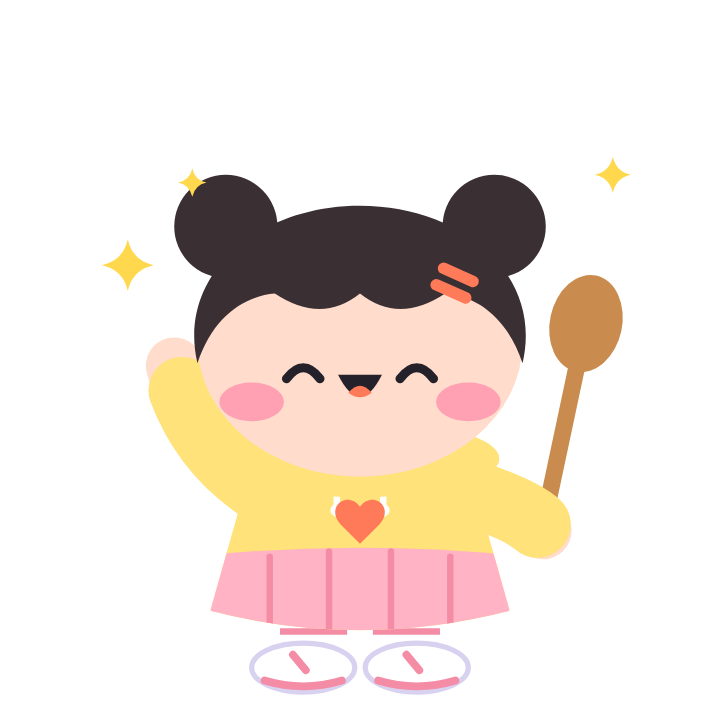
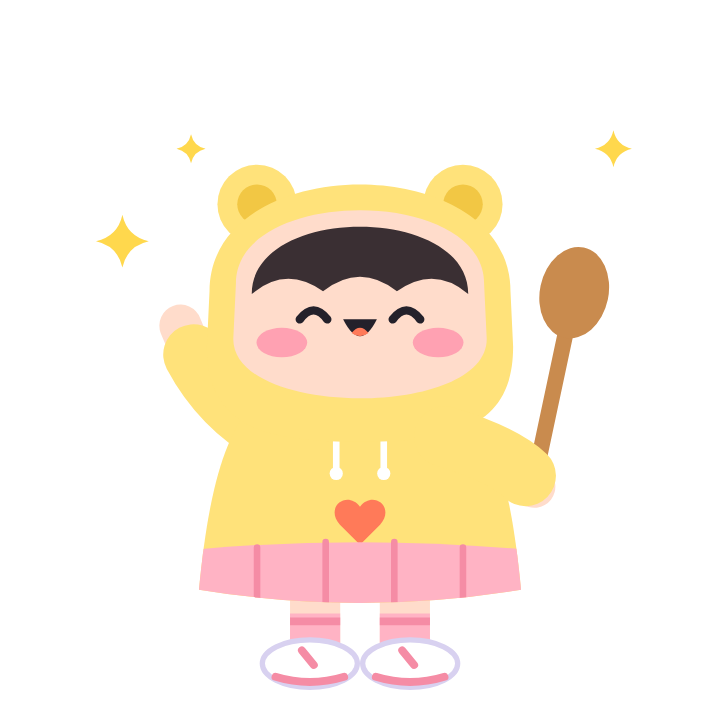
Give the cast human proportions and cuter outfits
Heads were large circles on tiny bodies. The figures are now about 2.4
heads tall with a rounded-square head, a body wider than the head,
shoulders, arms that taper to the hands and legs long enough to show socks
and sneakers. Hair is cut from the head shape so it always covers it.

Outfits: Chef Jiw wears a full coral apron over a sky-blue hoodie; Bai
Toey a denim pinafore over a mint tee with twin braids and a bucket hat;
Nong Chim a yellow bear-ear hoodie with the hood up and a pink pleated
skirt.

Claude-Session: https://claude.ai/code/session_01YRit4BDrXmu1xBXH17a6cf

Changed region(s): [[0.1833, 0.1833, 0.8861, 0.9778], [0.1222, 0.3056, 0.2139, 0.3972], [0.825, 0.1833, 0.8861, 0.275]]

diff --git a/assets/images/chef/src/draw.py b/assets/images/chef/src/draw.py
@@ -1,137 +1,130 @@
-# ทีมเชฟแบบภาพแบน วาดเป็น SVG ด้วยโค้ด: คนตัวเล็กหัวโต มีผม เสื้อผ้า แขนขา และของใช้ประจำตัว
+# ทีมเชฟแบบภาพแบน วาดเป็น SVG ด้วยโค้ด
+# สัดส่วนแบบคนตัวเล็กอ้วน: หัวเป็นทรงเหลี่ยมมน สูงราว 2.4 หัว ตัวกว้างกว่าหัว มีไหล่ แขนเรียวลงไปหามือ ขายาวพอเห็นถุงเท้ากับรองเท้า
 # รันไฟล์นี้ได้ไฟล์ .svg ของทุกท่าและทุกฉาก แล้วรัน `node raster.js ..` แปลงเป็น PNG
-INK, CORAL, CORAL_L, HAT, HAT_D, WOOD, PINK, YEL = '#24212B', '#FF7A59', '#FFA58C', '#FFFFFF', '#D8D1F0', '#C98B4E', '#FF9DB0', '#FFD84D'
+INK, CORAL, CORAL_L, CORAL_D, HAT, HAT_D, WOOD, PINK, YEL = '#24212B', '#FF7A59', '#FFA58C', '#E9603F', '#FFFFFF', '#D8D1F0', '#C98B4E', '#FF9DB0', '#FFD84D'
 GREEN, GREEN_L, STRAW, STRAW_D = '#2FB383', '#7BE0B5', '#F2C57C', '#D9A250'
 SVG = lambda body: f'<svg xmlns="http://www.w3.org/2000/svg" viewBox="0 0 480 480" width="480" height="480">\n{body}\n</svg>'
 
 def eyes(kind, dx=0, dy=0):
     L, R, Y = 196 + dx, 284 + dx, 262 + dy
-    if kind == 'dot': return f'<circle cx="{L}" cy="{Y}" r="10" fill="{INK}"/><circle cx="{R}" cy="{Y}" r="10" fill="{INK}"/>'
-    if kind == 'happy': return f'<path d="M{L-13} {Y+4} q13 -17 26 0 M{R-13} {Y+4} q13 -17 26 0" stroke="{INK}" stroke-width="7" stroke-linecap="round" fill="none"/>'
-    if kind == 'squeeze': return f'<path d="M{L-11} {Y-9} l16 9 l-16 9 M{R+11} {Y-9} l-16 9 l16 9" stroke="{INK}" stroke-width="7" stroke-linecap="round" stroke-linejoin="round" fill="none"/>'
+    if kind == 'dot': return f'<circle cx="{L}" cy="{Y}" r="11" fill="{INK}"/><circle cx="{R}" cy="{Y}" r="11" fill="{INK}"/>'
+    if kind == 'happy': return f'<path d="M{L-13} {Y+4} q13 -17 26 0 M{R-13} {Y+4} q13 -17 26 0" stroke="{INK}" stroke-width="8" stroke-linecap="round" fill="none"/>'
+    if kind == 'squeeze': return f'<path d="M{L-11} {Y-9} l16 9 l-16 9 M{R+11} {Y-9} l-16 9 l16 9" stroke="{INK}" stroke-width="8" stroke-linecap="round" stroke-linejoin="round" fill="none"/>'
 def mouth(kind):
-    X, Y = 240, 268
-    if kind == 'smile': return f'<path d="M{X-10} {Y} q10 11 20 0" stroke="{INK}" stroke-width="6" stroke-linecap="round" fill="none"/>'
-    if kind == 'open': return f'<path d="M{X-17} {Y-5} q17 34 34 0 z" fill="{INK}"/><path d="M{X-9} {Y+9} q9 7 18 0 q-9 -11 -18 0 z" fill="{CORAL}"/>'
+    X, Y = 240, 270
+    if kind == 'smile': return f'<path d="M{X-10} {Y} q10 11 20 0" stroke="{INK}" stroke-width="7" stroke-linecap="round" fill="none"/>'
+    if kind == 'open': return f'<path d="M{X-16} {Y-4} q16 32 32 0 z" fill="{INK}"/><path d="M{X-8} {Y+9} q8 6 16 0 q-8 -10 -16 0 z" fill="{CORAL}"/>'
     if kind == 'o': return f'<ellipse cx="{X}" cy="{Y+3}" rx="7" ry="9" fill="{INK}"/>'
-    if kind == 'wavy': return f'<path d="M{X-15} {Y+3} q5 -8 10 0 t10 0 t10 0" stroke="{INK}" stroke-width="5.5" stroke-linecap="round" fill="none"/>'
-    if kind == 'dash': return f'<path d="M{X-9} {Y+2} l18 0" stroke="{INK}" stroke-width="6.5" stroke-linecap="round"/>'
+    if kind == 'wavy': return f'<path d="M{X-15} {Y+3} q5 -8 10 0 t10 0 t10 0" stroke="{INK}" stroke-width="6" stroke-linecap="round" fill="none"/>'
+    if kind == 'dash': return f'<path d="M{X-9} {Y+1} l18 0" stroke="{INK}" stroke-width="7.5" stroke-linecap="round"/>'
     return ''
-def face(e, m, blush=0.8):  # หน้าอยู่กลางหัว: ตาจุดห่างกัน แก้มชมพู ปากเล็ก
-    return (f'<g transform="translate(0 -48)"><ellipse cx="156" cy="284" rx="25" ry="15" fill="{PINK}" opacity="{blush}"/><ellipse cx="324" cy="284" rx="25" ry="15" fill="{PINK}" opacity="{blush}"/>'
+def face(e, m, blush=0.85):  # ตาจุดอยู่ต่ำ ปากเล็กอยู่ระหว่างตา แก้มชมพูใต้ตา
+    return (f'<g transform="translate(240 176) scale(0.8) translate(-240 -262)"><ellipse cx="166" cy="288" rx="24" ry="14" fill="{PINK}" opacity="{blush}"/><ellipse cx="314" cy="288" rx="24" ry="14" fill="{PINK}" opacity="{blush}"/>'
             f'{eyes(*e) if isinstance(e, tuple) else eyes(e)}{mouth(m)}</g>')
 star = lambda x, y, s, c=YEL: f'<path d="M{x} {y-s} q{s*0.18} {s*0.82} {s} {s} q-{s*0.82} {s*0.18} -{s} {s} q-{s*0.18} -{s*0.82} -{s} -{s} q{s*0.82} -{s*0.18} {s} -{s} z" fill="{c}"/>'
 heart = lambda x, y, k=1.0, c=PINK: f'<path transform="translate({x} {y}) scale({k})" d="M0 -6 c-12 -16 -34 0 -19 17 l19 19 l19 -19 c15 -17 -7 -33 -19 -17 z" fill="{c}"/>'
-note = lambda x, y, c: f'<path d="M{x} {y} v-34 l22 -6 v32" stroke="{c}" stroke-width="6" fill="none" stroke-linecap="round" stroke-linejoin="round"/><ellipse cx="{x-7}" cy="{y}" rx="9" ry="7" fill="{c}"/><ellipse cx="{x+15}" cy="{y-8}" rx="9" ry="7" fill="{c}"/>'
 
-SHOULDER = {'L': (164, 304), 'R': (316, 304)}
-def arm(side, hx, hy, bx=0, by=0, skin='#FFE3C2', sleeve=None, cut=0.5):
-    """แขนโค้งจากไหล่ถึงมือ ปลายมน ท่อนบนเป็นแขนเสื้อ"""
+HEAD = 'M146 152 C146 78 334 78 334 152 L336 194 C336 254 144 254 144 194 Z'
+def hair_cap(color, fringe, key):
+    return (f'<clipPath id="h{key}"><path d="{fringe}"/></clipPath>'
+            f'<path d="{HEAD}" fill="{color}" stroke="{color}" stroke-width="12" stroke-linejoin="round" clip-path="url(#h{key})"/>')
+TORSO = 'M180 232 C142 242 126 300 118 384 Q240 404 362 384 C354 300 338 242 300 232 Z'
+SHOULDER = {'L': (176, 268), 'R': (304, 268)}
+def arm(side, hx, hy, bx=0, by=0, skin='#FFE3C2', sleeve=None, cut=0.62):
+    """แขนโค้งจากไหล่ถึงมือ ท่อนบนเป็นแขนเสื้อที่กว้างกว่า ปลายแขนกับมือเรียวกว่า"""
     x0, y0 = SHOULDER[side]; cx, cy = (x0 + hx) / 2 + bx, (y0 + hy) / 2 + by
-    out = f'<path d="M{x0} {y0} Q{cx} {cy} {hx} {hy}" stroke="{skin}" stroke-width="44" stroke-linecap="round" fill="none"/>'
+    out = f'<path d="M{x0} {y0} Q{cx} {cy} {hx} {hy}" stroke="{skin}" stroke-width="32" stroke-linecap="round" fill="none"/>'
     if sleeve:
         t = cut; ax, ay = x0 + (cx - x0) * t, y0 + (cy - y0) * t; bx2, by2 = cx + (hx - cx) * t, cy + (hy - cy) * t
-        out += f'<path d="M{x0} {y0} Q{ax} {ay} {ax + (bx2 - ax) * t} {ay + (by2 - ay) * t}" stroke="{sleeve}" stroke-width="52" stroke-linecap="round" fill="none"/>'
+        out += f'<path d="M{x0} {y0} Q{ax} {ay} {ax + (bx2 - ax) * t} {ay + (by2 - ay) * t}" stroke="{sleeve}" stroke-width="46" stroke-linecap="round" fill="none"/>'
     return out
-
-BODY = 'M160 270 Q240 246 320 270 L356 398 Q240 428 124 398 Z'
-def person(skin, skin_d, legs, shoes, outfit, hair, e, m, back='', arms_back='', arms_front='', hat='', front='', blush=0.8, sock=''):
-    return SVG(f'''{back}
-<path d="M204 392 V430 M276 392 V430" stroke="{legs}" stroke-width="52" stroke-linecap="round"/>{sock}
-<ellipse cx="198" cy="444" rx="38" ry="17" fill="{shoes}"/><ellipse cx="282" cy="444" rx="38" ry="17" fill="{shoes}"/>
-{arms_back}
-<clipPath id="c{abs(hash(outfit)) % 99999}"><path d="{BODY}"/></clipPath>
-<path d="{BODY}" fill="{outfit[0]}"/><g clip-path="url(#c{abs(hash(outfit)) % 99999})">{outfit[1]}</g>
-<ellipse cx="240" cy="190" rx="126" ry="104" fill="{skin}"/>
-{hair}{hat}{face(e, m, blush)}
+def sneakers(accent):  # ผ้าใบขาวพื้นหนา มีแถบสี
+    return ''.join(f'<ellipse cx="{x}" cy="440" rx="36" ry="18" fill="#FFFFFF" stroke="{HAT_D}" stroke-width="4"/><path d="M{x-26} 450 q26 8 52 0" stroke="{accent}" stroke-width="6" stroke-linecap="round" fill="none"/><path d="M{x-6} 430 l9 11" stroke="{accent}" stroke-width="6" stroke-linecap="round"/>' for x in (202, 278))
+def legs(skin, sock, stripe):  # ขา ถุงเท้ายาวมีแถบ
+    return (f'<path d="M206 372 V424 M274 372 V424" stroke="{skin}" stroke-width="38" stroke-linecap="round"/><path d="M206 402 V426 M274 402 V426" stroke="{sock}" stroke-width="38" stroke-linecap="butt"/>'
+            f'<path d="M187 408 h38 M255 408 h38" stroke="{stripe}" stroke-width="6"/>')
+_n = [0]
+def person(skin, top, clothes, hair, e, m, accent, sock='#FFFFFF', back='', under_head='', arms_back='', arms_front='', hat='', front='', blush=0.85):
+    """ลำดับชั้น: ของหลังตัว ขา รองเท้า แขนหลัง ตัวเสื้อ ของหลังหัว (ฮู้ด ผมยาว) หัว ผม หมวก หน้า แขนหน้า ของหน้าสุด"""
+    _n[0] += 1; cid = f'c{_n[0]}'
+    return SVG(f'''{back}{legs(skin, sock, accent)}{sneakers(accent)}{arms_back}
+<clipPath id="{cid}"><path d="{TORSO}"/></clipPath><path d="{TORSO}" fill="{top}"/><g clip-path="url(#{cid})">{clothes}</g>
+{under_head}<path d="{HEAD}" fill="{skin}"/>{hair}{hat}{face(e, m, blush)}
 {arms_front}{front}''')
 
-# ---------- ชุดวัยรุ่นแนวเกาหลี: ฮู้ดตัวโคร่งแขนยาวคลุมมือ กระโปรงพลีท ถุงเท้ายาว ผ้าใบพื้นหนา กิ๊บติดผม ----------
-def hoodie(color, dark, pocket=True):
-    return (f'<path d="M222 282 v34 M258 282 v34" stroke="#FFFFFF" stroke-width="5" stroke-linecap="round"/><circle cx="222" cy="320" r="5" fill="#FFFFFF"/><circle cx="258" cy="320" r="5" fill="#FFFFFF"/>'
-            + (f'<path d="M196 346 Q240 334 284 346 L296 392 Q240 402 184 392 Z" fill="none" stroke="{dark}" stroke-width="6" stroke-linejoin="round"/>' if pocket else ''))
-hood = lambda color: f'<ellipse cx="240" cy="280" rx="108" ry="30" fill="{color}"/>'
-def skirt(color, dark):
-    return f'<path d="M110 356 Q240 342 370 356 V440 H110 Z" fill="{color}"/><path d="M170 356 V430 M216 352 V430 M264 352 V430 M310 356 V430" stroke="{dark}" stroke-width="5" stroke-linecap="round"/>'
-def sneakers(accent):  # ผ้าใบขาวพื้นหนา มีแถบสี
-    return ''.join(f'<ellipse cx="{x}" cy="442" rx="40" ry="19" fill="#FFFFFF" stroke="{HAT_D}" stroke-width="4"/><path d="M{x-30} 452 q30 9 60 0" stroke="{accent}" stroke-width="6" stroke-linecap="round" fill="none"/><path d="M{x-8} 432 l10 12" stroke="{accent}" stroke-width="6" stroke-linecap="round"/>' for x in (196, 284))
-socks = lambda c: f'<path d="M178 402 h52 M250 402 h52 M178 414 h52 M250 414 h52" stroke="{c}" stroke-width="5"/>'
-clip = lambda x, y, r, c: f'<g transform="rotate({r} {x} {y})"><rect x="{x-17}" y="{y-5}" width="34" height="9" rx="4.5" fill="{c}"/><rect x="{x-17}" y="{y+9}" width="34" height="9" rx="4.5" fill="{c}"/></g>'
-
-def kperson(skin, hair, color, dark, e, m, accent, lower='', behind='', hat='', sock_c=None, **k):
-    """คนหนึ่งคนในชุดฮู้ด: lower = กระโปรงหรือผ้ากันเปื้อนที่ทับตัวเสื้อ behind = ผมยาวที่อยู่หลังตัว"""
-    blush = k.pop('blush', 0.85)
-    body = person(skin, skin, '#FFFFFF', '#FFFFFF', (color, hoodie(color, dark, not lower) + lower), hood(color) + hair, e, m, hat=hat, blush=blush,
-                  sock=socks(sock_c or accent), back=behind + k.pop('back', ''), **k)
-    # รองเท้าผ้าใบวาดทับวงรีรองเท้าพื้นฐาน และฮู้ดต้องอยู่หลังหัว จึงย้ายวงรีฮู้ดไปไว้ก่อนหัว
-    h = hood(color); head = body.index('<ellipse cx="240" cy="190"')
-    body = body.replace(h, '', 1); body = body[:head] + h + body[head:]
-    return body.replace(f'<ellipse cx="198" cy="444" rx="38" ry="17" fill="#FFFFFF"/><ellipse cx="282" cy="444" rx="38" ry="17" fill="#FFFFFF"/>', sneakers(accent))
-
-# เชฟจิ๋ว: หมวกเชฟใบเล็ก ผมหน้าม้าฟู ฮู้ดฟ้าอ่อน ผ้ากันเปื้อนส้มครึ่งตัว ผ้าใบแถบส้ม
+# ---------- เชฟจิ๋ว: หมวกเชฟ ผมหน้าม้าปัดข้าง ฮู้ดฟ้า ผ้ากันเปื้อนเต็มตัวสีส้มมีกระเป๋า ----------
 S1, SKY, SKY_D, BROWN = '#FFE3C2', '#BFD9FF', '#8FB6F2', '#6B4632'
-chef_hair = (f'<path d="M112 210 C98 146 150 92 240 92 C330 92 382 146 368 210 C360 182 344 166 322 160 Q296 186 262 158 Q232 184 200 156 Q166 180 140 164 C126 174 116 190 112 210 Z" fill="{BROWN}"/>')
-apron = f'<path d="M172 440 V352 Q240 338 308 352 V440 Z" fill="{CORAL}"/><rect x="214" y="368" width="52" height="34" rx="12" fill="{CORAL_L}"/><path d="M172 352 Q240 338 308 352" stroke="#E9603F" stroke-width="6" fill="none"/>'
+apron = (f'<path d="M204 232 V268 M276 232 V268" stroke="{CORAL_D}" stroke-width="9" stroke-linecap="round"/>'
+         f'<path d="M198 264 H282 Q290 264 290 272 V300 L326 312 L336 400 H144 L154 312 L190 300 V272 Q190 264 198 264 Z" fill="{CORAL}"/><rect x="212" y="326" width="56" height="38" rx="13" fill="{CORAL_L}"/>')
+chef_hair = hair_cap(BROWN, 'M100 40 H380 V182 C356 154 324 142 292 142 Q262 166 226 138 Q166 144 100 192 Z', 'chef')
+hood_down = lambda c: f'<ellipse cx="240" cy="246" rx="86" ry="26" fill="{c}"/>'
 def toque(rot=-8):
-    return (f'<g transform="translate(0 -52) rotate({rot} 240 140)"><path d="M184 152 Q240 134 296 152 L296 122 Q240 106 184 122 Z" fill="{HAT_D}" stroke="{HAT_D}" stroke-width="5" stroke-linejoin="round"/>'
+    return (f'<g transform="translate(240 96) rotate({rot}) scale(0.86) translate(-240 -150)"><path d="M184 152 Q240 134 296 152 L296 122 Q240 106 184 122 Z" fill="{HAT_D}" stroke="{HAT_D}" stroke-width="5" stroke-linejoin="round"/>'
             f'<path d="M180 124 C146 108 152 58 194 58 C202 20 278 20 286 58 C328 58 334 108 300 124 Q240 106 180 124 Z" fill="{HAT}" stroke="{HAT_D}" stroke-width="5" stroke-linejoin="round"/>'
             f'<path d="M214 64 q6 22 0 42 M266 64 q-6 22 0 42" stroke="{HAT_D}" stroke-width="5" stroke-linecap="round" fill="none"/></g>')
 def chef(e, m, **k):
     k.setdefault('hat', toque())
-    return kperson(S1, chef_hair, SKY, SKY_D, e, m, CORAL, lower=apron, **k)
-A1 = lambda side, hx, hy, bx=0, by=0: arm(side, hx, hy, bx, by, S1, SKY, 0.84)
-ladle = lambda x, y, r: f'<g transform="rotate({r} {x} {y})"><path d="M{x} {y+30} V{y-70}" stroke="{WOOD}" stroke-width="11" stroke-linecap="round"/><path d="M{x-24} {y-74} a24 24 0 0 0 48 0 z" fill="{WOOD}"/></g>'
-wok = lambda x, y: (f'<path d="M{x-74} {y} q74 62 148 0 z" fill="{INK}"/><path d="M{x+70} {y+2} l52 -14" stroke="{INK}" stroke-width="14" stroke-linecap="round"/>'
-                    f'<circle cx="{x-30}" cy="{y-26}" r="10" fill="{GREEN_L}"/><circle cx="{x+2}" cy="{y-46}" r="10" fill="{CORAL}"/><circle cx="{x+30}" cy="{y-24}" r="10" fill="{YEL}"/><circle cx="{x-8}" cy="{y-14}" r="9" fill="{GREEN}"/>'
-                    f'<path d="M{x-56} {y-58} q-10 -12 0 -24 M{x+52} {y-62} q10 -12 0 -24" stroke="{HAT_D}" stroke-width="6" stroke-linecap="round" fill="none"/>')
+    return person(S1, SKY, apron, chef_hair, e, m, CORAL, under_head=hood_down(SKY_D), **k)
+A1 = lambda side, hx, hy, bx=0, by=0: arm(side, hx, hy, bx, by, S1, SKY)
+ladle = lambda x, y, r: f'<g transform="rotate({r} {x} {y})"><path d="M{x} {y+26} V{y-66}" stroke="{WOOD}" stroke-width="10" stroke-linecap="round"/><path d="M{x-22} {y-70} a22 22 0 0 0 44 0 z" fill="{WOOD}"/></g>'
+wok = lambda x, y: (f'<path d="M{x-66} {y} q66 56 132 0 z" fill="{INK}"/><path d="M{x+62} {y+2} l48 -12" stroke="{INK}" stroke-width="13" stroke-linecap="round"/>'
+                    f'<circle cx="{x-28}" cy="{y-24}" r="9" fill="{GREEN_L}"/><circle cx="{x+2}" cy="{y-42}" r="9" fill="{CORAL}"/><circle cx="{x+28}" cy="{y-22}" r="9" fill="{YEL}"/><circle cx="{x-6}" cy="{y-12}" r="8" fill="{GREEN}"/>'
+                    f'<path d="M{x-50} {y-54} q-9 -11 0 -22 M{x+48} {y-58} q9 -11 0 -22" stroke="{HAT_D}" stroke-width="6" stroke-linecap="round" fill="none"/>')
 POSES = {
-  'hi': chef('dot', 'open', arms_back=A1('L', 96, 222, -22, 10), arms_front=ladle(380, 330, 14) + A1('R', 376, 350, 18, -4),
-             front=f'<path d="M56 196 q-12 -14 -8 -32 M80 180 q-6 -12 -2 -26" stroke="{YEL}" stroke-width="7" stroke-linecap="round" fill="none"/>'),
-  'cook': chef('dot', 'smile', arms_front=wok(262, 372) + A1('L', 196, 366, -30, 16) + A1('R', 372, 356, 26, 10)),
-  'cheer': chef('happy', 'open', arms_back=A1('L', 92, 196, -18, 14) + A1('R', 388, 196, 18, 14), hat=toque(-14), front=star(54, 128, 22) + star(430, 116, 26) + star(404, 44, 13) + star(96, 60, 12)),
-  'think': chef(('dot', 9, -8), 'dash', arms_front=A1('L', 214, 372, -34, 20) + A1('R', 284, 262, 46, 16), hat=toque(6), blush=0.6,
-                front=f'<circle cx="384" cy="120" r="8" fill="{HAT_D}"/><circle cx="408" cy="88" r="13" fill="{HAT_D}"/><circle cx="438" cy="42" r="22" fill="{HAT_D}"/>'),
-  'oops': chef('squeeze', 'wavy', arms_front=A1('L', 172, 242, -42, 26) + A1('R', 308, 242, 42, 26), hat=toque(-18), blush=0.5,
-               front='<path d="M414 96 q22 34 0 46 q-22 -12 0 -46 z" fill="#6CC5F5"/><path d="M60 120 l-22 -10 M54 154 l-24 2" stroke="#6CC5F5" stroke-width="7" stroke-linecap="round"/>'),
+  'hi': chef('dot', 'open', arms_back=A1('L', 104, 196, -18, 14), arms_front=ladle(372, 300, 14) + A1('R', 368, 318, 20, -6),
+             front=f'<path d="M66 172 q-12 -14 -8 -32 M90 156 q-6 -12 -2 -26" stroke="{YEL}" stroke-width="7" stroke-linecap="round" fill="none"/>'),
+  'cook': chef('dot', 'smile', arms_front=wok(256, 350) + A1('L', 196, 344, -34, 12) + A1('R', 352, 340, 30, 8)),
+  'cheer': chef('happy', 'open', arms_back=A1('L', 100, 176, -14, 16) + A1('R', 380, 176, 14, 16), hat=toque(-14), front=star(58, 116, 22) + star(426, 104, 26) + star(398, 36, 13) + star(100, 50, 12)),
+  'think': chef(('dot', 10, -8), 'dash', arms_front=A1('L', 226, 334, -38, 16) + A1('R', 290, 232, 48, 12), hat=toque(6), blush=0.6,
+                front=f'<circle cx="376" cy="110" r="8" fill="{HAT_D}"/><circle cx="400" cy="80" r="13" fill="{HAT_D}"/><circle cx="430" cy="36" r="22" fill="{HAT_D}"/>'),
+  'oops': chef('squeeze', 'wavy', arms_front=A1('L', 174, 214, -44, 22) + A1('R', 306, 214, 44, 22), hat=toque(-18), blush=0.5,
+               front='<path d="M404 86 q22 34 0 46 q-22 -12 0 -46 z" fill="#6CC5F5"/><path d="M70 110 l-22 -10 M64 144 l-24 2" stroke="#6CC5F5" stroke-width="7" stroke-linecap="round"/>'),
 }
 
-# ใบเตย: คนจ่ายตลาด หมวกบักเก็ตครีม ผมยาวหน้าม้า ฮู้ดเขียวมินต์ กระโปรงพลีทครีม ถุงผ้าใส่ผัก
-S2, MINT, MINT_D, CREAM, CREAM_D, DARKHAIR = '#FFDDBE', '#8FE3C0', '#55C79A', '#FFF3DC', '#EAD9B4', '#4A3A36'
-toey_behind = f'<path d="M124 190 C104 280 110 340 136 372 H344 C370 340 376 280 356 190 Z" fill="{DARKHAIR}"/>'
-toey_hair = f'<path d="M112 214 C100 150 152 96 240 96 C328 96 380 150 368 214 C356 184 340 170 318 166 Q240 190 162 166 C140 170 124 184 112 214 Z" fill="{DARKHAIR}"/>'
-bucket = (f'<path d="M96 132 Q240 96 384 132 Q396 150 372 156 Q240 126 108 156 Q84 150 96 132 Z" fill="{CREAM_D}"/>'
-          f'<path d="M140 136 C132 60 186 26 240 26 C294 26 348 60 340 136 Q240 110 140 136 Z" fill="{CREAM}"/><path d="M146 112 Q240 88 334 112" stroke="{CREAM_D}" stroke-width="6" fill="none"/>')
+# ---------- ใบเตย: หมวกบักเก็ต ผมเปียคู่ผูกโบว์ เสื้อยืดเขียวมินต์ เอี๊ยมกระโปรงยีนส์ติดกระดุมเหลือง ถุงผ้าใส่ผัก ----------
+S2, MINT, DENIM, DENIM_D, CREAM, CREAM_D, DARKHAIR = '#FFDDBE', '#A6ECCF', '#7C9BF0', '#5E7FE0', '#FFF3DC', '#EAD9B4', '#4A3A36'
+pinafore = (f'<path d="M206 232 V270 M274 232 V270" stroke="{DENIM}" stroke-width="16" stroke-linecap="round"/>'
+            f'<path d="M196 262 H284 Q292 262 292 270 V304 L334 314 L346 404 H134 L146 314 L188 304 V270 Q188 262 196 262 Z" fill="{DENIM}"/>'
+            f'<circle cx="206" cy="276" r="7" fill="{YEL}"/><circle cx="274" cy="276" r="7" fill="{YEL}"/><path d="M216 316 H264 V340 Q240 352 216 340 Z" fill="none" stroke="{DENIM_D}" stroke-width="5" stroke-linejoin="round"/>'
+            f'<path d="M150 346 Q240 336 330 346" stroke="{DENIM_D}" stroke-width="5" fill="none"/>')
+braid = lambda x, d: (f'<path d="M{x} 206 q{d*14} 34 {d*4} 68 q{-d*6} 24 {d*6} 44" stroke="{DARKHAIR}" stroke-width="30" stroke-linecap="round" fill="none"/>'
+                      f'<rect x="{x + d*2 - 18}" y="296" width="36" height="16" rx="8" fill="{CORAL}"/>')
+toey_hair = hair_cap(DARKHAIR, 'M100 40 H380 V190 C356 160 322 150 296 148 Q240 170 184 148 C158 150 124 160 100 190 Z', 'toey')
+bucket = (f'<g transform="translate(240 92) scale(0.86) translate(-240 -130)"><path d="M96 132 Q240 96 384 132 Q396 150 372 156 Q240 126 108 156 Q84 150 96 132 Z" fill="{CREAM_D}"/>'
+          f'<path d="M140 136 C132 60 186 26 240 26 C294 26 348 60 340 136 Q240 110 140 136 Z" fill="{CREAM}"/><path d="M146 112 Q240 88 334 112" stroke="{CREAM_D}" stroke-width="6" fill="none"/></g>')
 def toey(e, m, **k):
-    return kperson(S2, toey_hair, MINT, MINT_D, e, m, GREEN, lower=skirt(CREAM, CREAM_D), behind=toey_behind, hat=bucket, **k)
-A2 = lambda side, hx, hy, bx=0, by=0: arm(side, hx, hy, bx, by, S2, MINT, 0.84)
-tote = lambda x, y: (f'<path d="M{x-26} {y-4} q26 -66 52 0" stroke="{CREAM_D}" stroke-width="8" fill="none" stroke-linecap="round"/>'
-    f'<path d="M{x-28} {y+2} q-22 -46 6 -64 q26 20 8 64 z" fill="{GREEN}"/><path d="M{x-2} {y+2} q-8 -56 26 -68 q20 30 -4 68 z" fill="{GREEN_L}"/><path d="M{x+18} {y+4} l22 -54 q10 4 6 14 l-12 42 z" fill="{CORAL}"/>'
-    f'<path d="M{x-48} {y} h96 l-6 74 q-42 10 -84 0 z" fill="{CREAM}" stroke="{CREAM_D}" stroke-width="4" stroke-linejoin="round"/>' + heart(x, y + 40, 0.8, CORAL))
+    return person(S2, MINT, pinafore, toey_hair, e, m, GREEN, back=braid(156, -1) + braid(324, 1), hat=bucket, **k)
+A2 = lambda side, hx, hy, bx=0, by=0: arm(side, hx, hy, bx, by, S2, MINT, 0.4)
+tote = lambda x, y: (f'<path d="M{x-24} {y-4} q24 -60 48 0" stroke="{CREAM_D}" stroke-width="8" fill="none" stroke-linecap="round"/>'
+    f'<path d="M{x-26} {y+2} q-20 -42 6 -58 q24 18 8 58 z" fill="{GREEN}"/><path d="M{x-2} {y+2} q-8 -50 24 -62 q18 28 -4 62 z" fill="{GREEN_L}"/><path d="M{x+16} {y+4} l20 -50 q10 4 6 14 l-12 38 z" fill="{CORAL}"/>'
+    f'<path d="M{x-44} {y} h88 l-6 68 q-38 10 -76 0 z" fill="{CREAM}" stroke="{CREAM_D}" stroke-width="4" stroke-linejoin="round"/>' + heart(x, y + 36, 0.75, CORAL))
 POSES.update({
-  'shop': toey('happy', 'open', arms_back=A2('L', 96, 232, -22, 12), arms_front=tote(392, 356) + A2('R', 384, 352, 22, -2), front=star(58, 176, 15)),
-  'list': toey('dot', 'smile', arms_front=f'<rect x="262" y="318" width="110" height="122" rx="14" fill="#FFFFFF" stroke="{HAT_D}" stroke-width="5"/>'
-           f'<path d="M282 350 l8 8 l14 -16 M282 384 l8 8 l14 -16" stroke="{GREEN}" stroke-width="7" fill="none" stroke-linecap="round" stroke-linejoin="round"/>'
-           f'<path d="M318 352 h36 M318 386 h36 M284 418 h70" stroke="{HAT_D}" stroke-width="7" stroke-linecap="round"/>' + A2('R', 352, 380, 30, 0) + A2('L', 196, 372, -30, 18)),
+  'shop': toey('happy', 'open', arms_back=A2('L', 106, 200, -18, 14), arms_front=tote(382, 330) + A2('R', 374, 322, 22, -4), front=star(64, 150, 15)),
+  'list': toey('dot', 'smile', arms_front=f'<rect x="262" y="292" width="104" height="116" rx="14" fill="#FFFFFF" stroke="{HAT_D}" stroke-width="5"/>'
+           f'<path d="M280 322 l8 8 l14 -16 M280 354 l8 8 l14 -16" stroke="{GREEN}" stroke-width="7" fill="none" stroke-linecap="round" stroke-linejoin="round"/>'
+           f'<path d="M316 324 h34 M316 356 h34 M282 386 h66" stroke="{HAT_D}" stroke-width="7" stroke-linecap="round"/>' + A2('R', 348, 352, 30, 0) + A2('L', 208, 340, -34, 14)),
 })
 
-# น้องชิม: นักชิม ผมมวยคู่ติดกิ๊บ ฮู้ดเหลือง กระโปรงพลีทชมพู ถุงเท้าลาย ผ้าใบแถบชมพู ถือช้อนใหญ่
+# ---------- น้องชิม: ฮู้ดหมีสีเหลืองสวมฮู้ด หน้าม้า กระโปรงพลีทชมพู ถุงเท้าชมพู ถือช้อนใหญ่ ----------
 S3, BUTTER, BUTTER_D, ROSE, ROSE_D, BLACK = '#FFDCCB', '#FFE27A', '#F2C744', '#FFB3C4', '#F58CA5', '#3A2F33'
-chim_hair = (f'<circle cx="136" cy="100" r="40" fill="{BLACK}"/><circle cx="344" cy="100" r="40" fill="{BLACK}"/>'
-             f'<path d="M114 206 C98 138 160 84 240 84 C320 84 382 138 366 206 C354 170 330 154 306 152 Q270 176 240 152 Q210 176 174 152 C150 154 126 170 114 206 Z" fill="{BLACK}"/>'
-             + clip(316, 138, 24, CORAL))
+bear_hood = (f'<circle cx="162" cy="92" r="30" fill="{BUTTER}"/><circle cx="318" cy="92" r="30" fill="{BUTTER}"/><circle cx="162" cy="92" r="15" fill="{BUTTER_D}"/><circle cx="318" cy="92" r="15" fill="{BUTTER_D}"/>'
+             f'<path d="M126 158 C126 50 354 50 354 158 L356 200 C356 262 310 272 240 272 C170 272 124 262 124 200 Z" fill="{BUTTER}"/>')
+chim_clothes = (f'<path d="M222 262 v30 M258 262 v30" stroke="#FFFFFF" stroke-width="5" stroke-linecap="round"/><circle cx="222" cy="296" r="5" fill="#FFFFFF"/><circle cx="258" cy="296" r="5" fill="#FFFFFF"/>'
+                + heart(240, 326, 0.8, CORAL) + f'<path d="M110 354 Q240 342 370 354 V420 H110 Z" fill="{ROSE}"/><path d="M162 352 V410 M214 348 V410 M266 348 V410 M318 352 V410" stroke="{ROSE_D}" stroke-width="5" stroke-linecap="round"/>')
+chim_hair = f'<path d="M158 160 C158 92 322 92 322 160 Q296 138 268 158 Q240 136 212 158 Q184 138 158 160 Z" fill="{BLACK}"/>'
 def chim(e, m, **k):
     k.setdefault('blush', 0.95)
-    inner = kperson(S3, chim_hair, BUTTER, BUTTER_D, e, m, ROSE_D, lower=skirt(ROSE, ROSE_D) + heart(240, 322, 0.8, CORAL), sock_c=ROSE_D, **k)
+    inner = person(S3, BUTTER, chim_clothes, chim_hair, e, m, ROSE_D, sock=ROSE, under_head=bear_hood, **k)
     body = inner[inner.index('>') + 1:inner.rindex('</svg>')]
-    return SVG(f'<g transform="translate(240 464) scale(0.86) translate(-240 -464)">{body}</g>')  # ตัวเล็กกว่าพี่ๆ
-A3 = lambda side, hx, hy, bx=0, by=0: arm(side, hx, hy, bx, by, S3, BUTTER, 0.84)
-bigspoon = lambda x, y, r: f'<g transform="rotate({r} {x} {y})"><path d="M{x} {y+24} v-150" stroke="{WOOD}" stroke-width="13" stroke-linecap="round"/><ellipse cx="{x}" cy="{y-150}" rx="28" ry="38" fill="{WOOD}"/></g>'
+    return SVG(f'<g transform="translate(240 460) scale(0.88) translate(-240 -460)">{body}</g>')  # ตัวเล็กกว่าพี่ๆ
+A3 = lambda side, hx, hy, bx=0, by=0: arm(side, hx, hy, bx, by, S3, BUTTER, 0.8)
+bigspoon = lambda x, y, r: f'<g transform="rotate({r} {x} {y})"><path d="M{x} {y+22} v-136" stroke="{WOOD}" stroke-width="12" stroke-linecap="round"/><ellipse cx="{x}" cy="{y-136}" rx="26" ry="35" fill="{WOOD}"/></g>'
 POSES.update({
-  'sip': chim('happy', '', arms_front=f'<path d="M318 244 L262 226" stroke="{WOOD}" stroke-width="12" stroke-linecap="round"/><ellipse cx="246" cy="222" rx="24" ry="15" fill="{WOOD}"/>' + A3('R', 322, 250, 44, 22) + A3('L', 200, 368, -30, 18),
-              front=heart(420, 120, 1.1) + heart(66, 150, 0.7)),
-  'yum': chim('happy', 'open', arms_back=A3('L', 96, 208, -18, 14), arms_front=bigspoon(384, 322, 12) + A3('R', 382, 336, 22, 0), front=star(60, 130, 20) + star(436, 60, 14) + star(110, 66, 11)),
-  'hmm': chim(('dot', -8, -7), 'dash', arms_front=bigspoon(372, 372, 22) + A3('R', 366, 372, 24, 4) + A3('L', 198, 368, -30, 18), blush=0.6,
-              front=f'<circle cx="118" cy="96" r="7" fill="{HAT_D}"/><circle cx="92" cy="66" r="11" fill="{HAT_D}"/><circle cx="60" cy="24" r="18" fill="{HAT_D}"/>'),
+  'sip': chim('happy', '', arms_front=f'<path d="M312 206 L262 192" stroke="{WOOD}" stroke-width="11" stroke-linecap="round"/><ellipse cx="248" cy="188" rx="22" ry="14" fill="{WOOD}"/>' + A3('R', 316, 212, 46, 18) + A3('L', 208, 338, -34, 14),
+              front=heart(416, 110, 1.1) + heart(70, 140, 0.7)),
+  'yum': chim('happy', 'open', arms_back=A3('L', 104, 184, -14, 16), arms_front=bigspoon(374, 292, 12) + A3('R', 372, 306, 22, -2), front=star(60, 120, 20) + star(432, 50, 14) + star(112, 50, 11)),
+  'hmm': chim(('dot', -9, -7), 'dash', arms_front=bigspoon(364, 340, 22) + A3('R', 358, 340, 26, 2) + A3('L', 208, 338, -34, 14), blush=0.6,
+              front=f'<circle cx="112" cy="70" r="7" fill="{HAT_D}"/><circle cx="88" cy="42" r="11" fill="{HAT_D}"/><circle cx="58" cy="6" r="16" fill="{HAT_D}"/>'),
 })
 for n, svg in POSES.items(): open(n + '.svg', 'w').write(svg)
 

diff --git a/README.md b/README.md
@@ -80,13 +80,13 @@ select created_at, kind, name, contact, paid_note, source from waitlist order by
 
 ## ตัวละคร
 
-ทีมเชฟ 3 คน เป็นภาพแบน คนตัวเล็กหัวโตในชุดวัยรุ่นแนวเกาหลี (ฮู้ดตัวโคร่ง กระโปรงพลีท ถุงเท้ายาว ผ้าใบ) ต่างกันที่ขนาด สีผิว ทรงผม และสีชุด แต่ละคนดูแลงานของตัวเอง และใช้เฉพาะจังหวะที่มีความหมาย ไม่แปะทุกหน้า (ดู `MASCOT` ที่ `src/data/images.ts`)
+ทีมเชฟ 3 คน เป็นภาพแบน คนตัวเล็กอ้วนสัดส่วนราว 2.4 หัว ในชุดวัยรุ่นแนวเกาหลี (ฮู้ด เอี๊ยมกระโปรง กระโปรงพลีท ถุงเท้ายาว ผ้าใบ) ต่างกันที่ขนาด สีผิว ทรงผม และสีชุด แต่ละคนดูแลงานของตัวเอง และใช้เฉพาะจังหวะที่มีความหมาย ไม่แปะทุกหน้า (ดู `MASCOT` ที่ `src/data/images.ts`)
 
 | ตัวละคร | หน้าตาและชุด | ใช้ตอน |
 |---|---|---|
-| เชฟจิ๋ว | หมวกเชฟ ผมหน้าม้าสีน้ำตาล ฮู้ดฟ้า ผ้ากันเปื้อนส้ม ถือกระบวยหรือกระทะ | ทักทายที่หน้าร้านและหน้าแนะนำแอป ครบเวลา รอคำตอบ มีข้อผิดพลาด |
-| ใบเตย | หมวกบักเก็ต ผมยาว ฮู้ดเขียวมินต์ กระโปรงครีม ถือถุงผ้าใส่ผัก | แผนวันอาทิตย์ รายการของที่ต้องซื้อ ราคาตลาด |
-| น้องชิม | ผมมวยคู่ติดกิ๊บ ฮู้ดเหลือง กระโปรงชมพู ถือช้อนใหญ่ | ชิมให้คะแนนตอนทำจบจาน หน้าตาเปลี่ยนตามคะแนน |
+| เชฟจิ๋ว | หมวกเชฟ ผมหน้าม้าปัดข้าง ฮู้ดฟ้า ผ้ากันเปื้อนเต็มตัวสีส้ม ถือกระบวยหรือกระทะ | ทักทายที่หน้าร้านและหน้าแนะนำแอป ครบเวลา รอคำตอบ มีข้อผิดพลาด |
+| ใบเตย | หมวกบักเก็ต ผมเปียคู่ผูกโบว์ เสื้อยืดเขียวมินต์ เอี๊ยมกระโปรงยีนส์ ถือถุงผ้าใส่ผัก | แผนวันอาทิตย์ รายการของที่ต้องซื้อ ราคาตลาด |
+| น้องชิม | ฮู้ดหมีสีเหลืองสวมฮู้ด กระโปรงพลีทชมพู ถุงเท้าชมพู ถือช้อนใหญ่ | ชิมให้คะแนนตอนทำจบจาน หน้าตาเปลี่ยนตามคะแนน |
 
 ฉาก: หน้าร้านเป็นครัวของทีมเชฟ และหน้าแผนวันอาทิตย์เป็นแผงตลาด (ดู `SCENE` ในไฟล์เดียวกัน) หัวข้อใช้ฟอนต์ Mitr
 
